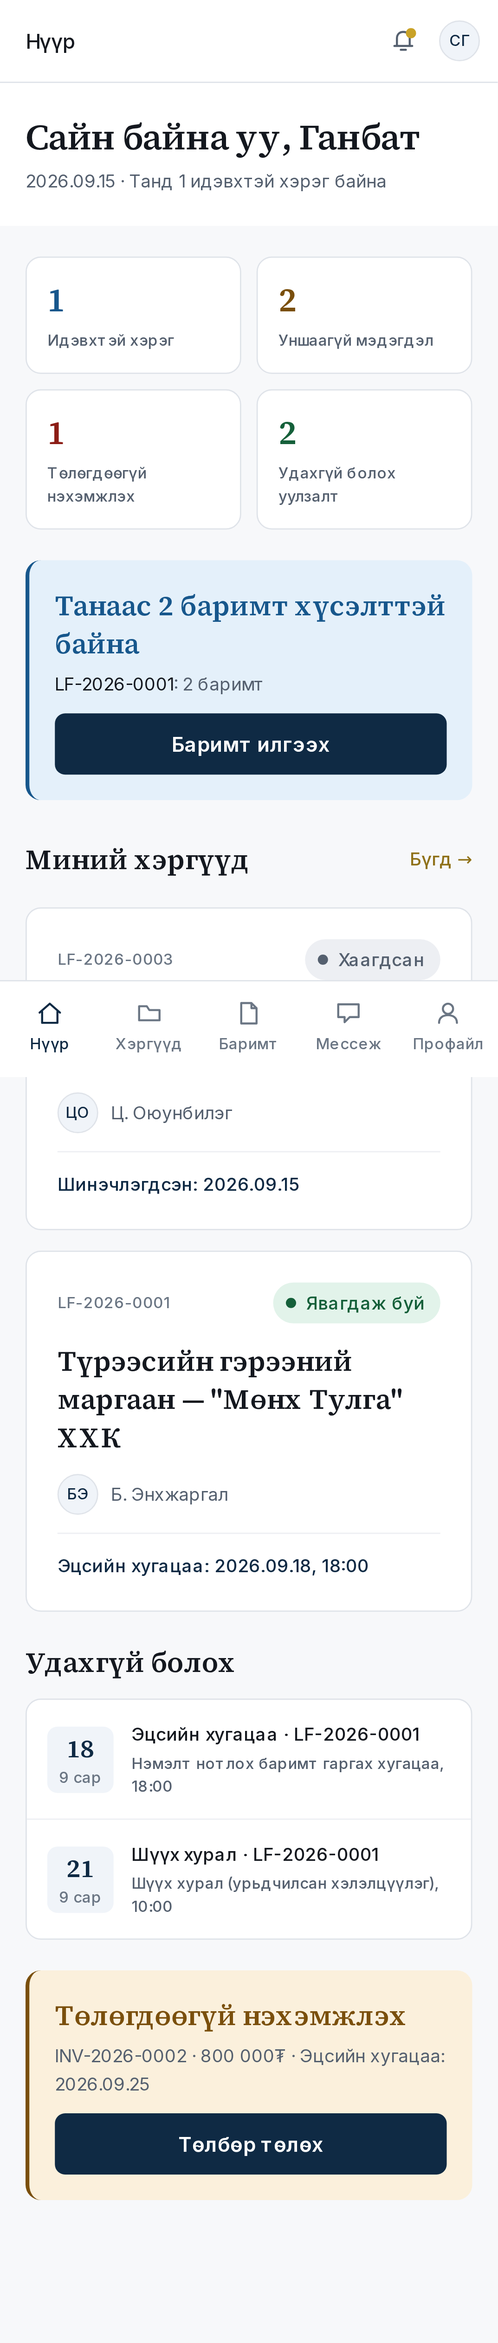
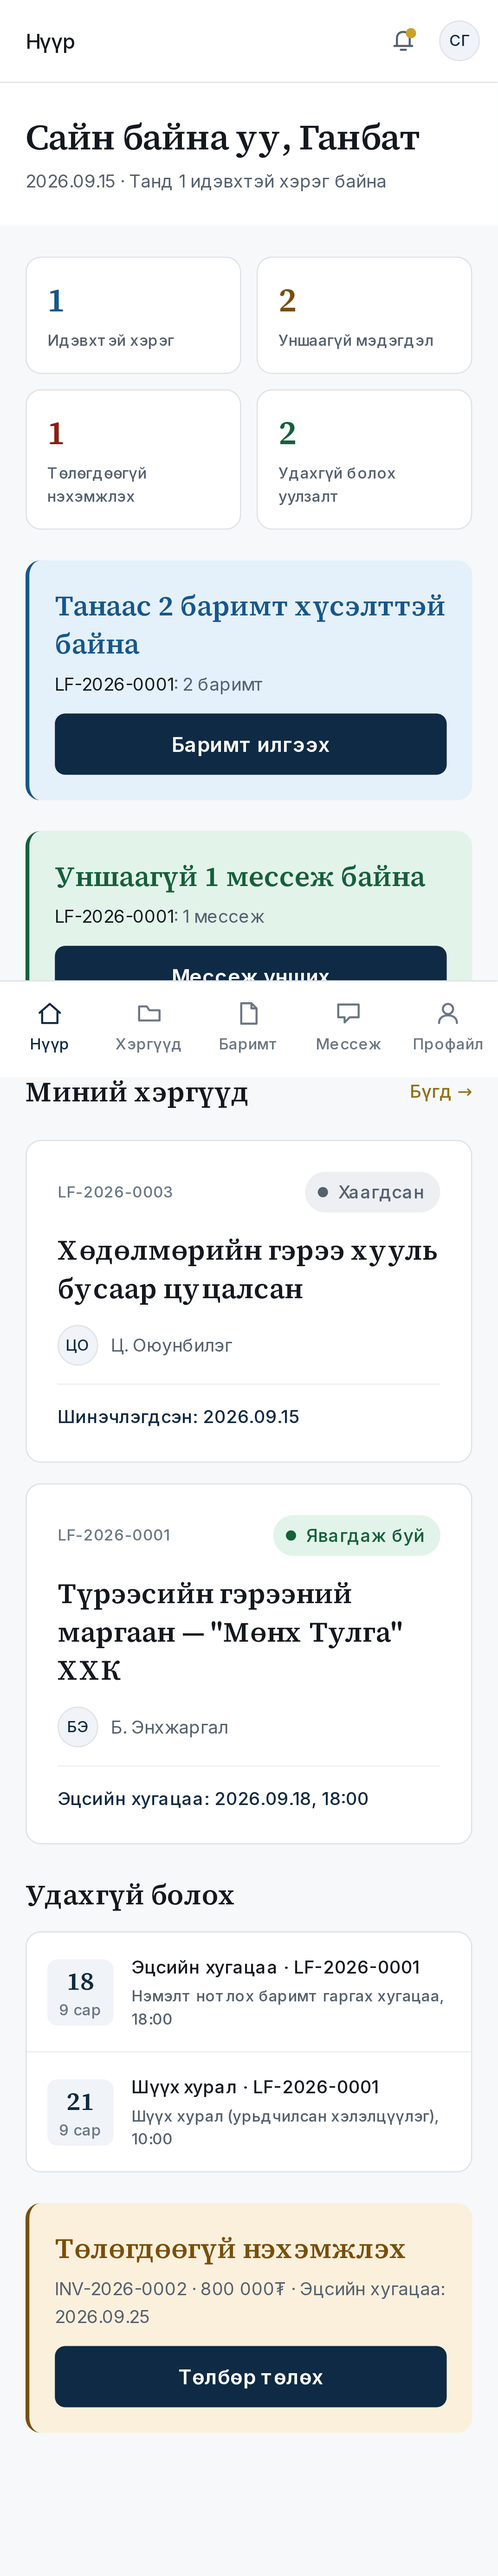
test(web): case messages e2e flows, screenshots and README section
- Playwright: client writes in the case chat → lawyer gets the notification, opens its link and replies →
  the client's open chat shows the reply by polling; inbox unread count drops to 0 after opening;
  another client or lawyer gets 403 from the message API and the chat URL
- Shared e2e helpers (apiAs, createCaseForClient1) moved to fixtures
- Screenshot spec captures the admin chat tab as ADMIN, which does not change read state
- Baselines updated for the chat tab, message badges, dashboard card and the messages inbox
- README: messages module, endpoints, message.sent event and notification dedup, UI, test notes;
  messages removed from the coming-soon list

Claude-Session: https://claude.ai/code/session_01CvyuQB166igy1ds2wLy2Ew

Changed region(s): [[0.0308, 0.0, 0.9534, 0.964], [0.2153, 0.1244, 0.3383, 0.1555], [0.8919, 0.0, 0.9226, 0.0311]]

diff --git a/apps/web/e2e/messages.spec.ts b/apps/web/e2e/messages.spec.ts
@@ -1,0 +1,94 @@
+import { expect, test } from '@playwright/test';
+import { CLIENT1, CLIENT2, LAWYER1, LAWYER2, apiAs, createCaseForClient1, login } from './fixtures';
+
+const uniqueId = () => Date.now().toString(36);
+
+test.describe('Хэргийн мессеж', () => {
+  test('CLIENT мессеж илгээх → LAWYER талд харагдаж мэдэгдэл очих → LAWYER хариулах → CLIENT талд харагдах', async ({ page, browser }, testInfo) => {
+    const id = uniqueId();
+    const question = `Хурлын өмнө уулзаж болох уу? ${id}`;
+    const reply = `Баасан гарагт 14 цагт уулзъя. ${id}`;
+    const lawyerApi = await apiAs(LAWYER1);
+    const created = await createCaseForClient1(lawyerApi, `E2E мессеж ${id}`);
+
+    // Client starts the conversation from the case chat tab.
+    await login(page, CLIENT1);
+    await page.goto(`/portal/cases/${created.id}?tab=messages`);
+    const clientThread = page.getByRole('region', { name: 'Мессеж' });
+    await expect(clientThread.getByText('Харилцаа эхлүүлэх')).toBeVisible();
+    await clientThread.getByLabel('Мессеж бичих').fill(question);
+    await clientThread.getByLabel('Мессеж бичих').press('Enter');
+    await expect(clientThread.getByText(question)).toBeVisible();
+
+    // The lawyer is notified with a link to the admin chat tab.
+    const { items: notifications } = (await (await lawyerApi.get('/notifications')).json()) as { items: { title: string; link: string }[] };
+    const note = notifications.find((item) => item.link === `/admin/cases/${created.id}?tab=messages`);
+    expect(note?.title).toBe(`Шинэ мессеж: ${created.caseNumber}`);
+    await lawyerApi.dispose();
+
+    // Lawyer opens the link, sees the question and replies.
+    const lawyerContext = await browser.newContext({ baseURL: testInfo.project.use.baseURL });
+    const lawyer = await lawyerContext.newPage();
+    await login(lawyer, LAWYER1);
+    await lawyer.goto(note!.link);
+    await expect(lawyer.getByRole('tab', { name: /Мессеж/, selected: true })).toBeVisible();
+    const lawyerThread = lawyer.getByRole('region', { name: 'Мессеж' });
+    await expect(lawyerThread.getByText(question)).toBeVisible();
+    await lawyerThread.getByLabel('Мессеж бичих').fill(reply);
+    await lawyerThread.getByRole('button', { name: 'Илгээх' }).click();
+    await expect(lawyerThread.getByText(reply)).toBeVisible();
+
+    // The client's open chat picks the reply up by polling.
+    await expect(clientThread.getByText(reply)).toBeVisible({ timeout: 15_000 });
+    await lawyerContext.close();
+  });
+
+  test('уншаагүй тоо inbox-д харагдаж, чатыг нээхэд 0 болно', async ({ page }) => {
+    const id = uniqueId();
+    const lawyerApi = await apiAs(LAWYER1);
+    const created = await createCaseForClient1(lawyerApi, `E2E уншаагүй ${id}`);
+    for (const body of [`Эхний мессеж ${id}`, `Хоёр дахь мессеж ${id}`]) {
+      expect((await lawyerApi.post(`/cases/${created.id}/messages`, { data: { body } })).status()).toBe(201);
+    }
+    await lawyerApi.dispose();
+
+    await login(page, CLIENT1);
+    await page.goto('/portal/messages');
+    const row = page.getByRole('link', { name: new RegExp(created.caseNumber) });
+    await expect(row).toContainText(`Хоёр дахь мессеж ${id}`);
+    await expect(row.getByLabel('2 уншаагүй')).toBeVisible();
+
+    await row.click();
+    await expect(page).toHaveURL(new RegExp(`/portal/cases/${created.id}\\?tab=messages$`));
+    await expect(page.getByRole('region', { name: 'Мессеж' }).getByText(`Эхний мессеж ${id}`)).toBeVisible();
+
+    const clientApi = await apiAs(CLIENT1);
+    await expect.poll(async () => ((await (await clientApi.get(`/cases/${created.id}/messages/unread-count`)).json()) as { count: number }).count).toBe(0);
+    await clientApi.dispose();
+  });
+
+  test('хэрэгт хандах эрхгүй хүн мессеж таб, API-аар орж чадахгүй', async ({ page, browser }, testInfo) => {
+    const lawyerApi = await apiAs(LAWYER1);
+    const created = await createCaseForClient1(lawyerApi, `E2E мессежийн эрх ${uniqueId()}`);
+    await lawyerApi.dispose();
+
+    for (const outsider of [CLIENT2, LAWYER2]) {
+      const api = await apiAs(outsider);
+      expect((await api.get(`/cases/${created.id}/messages`)).status()).toBe(403);
+      expect((await api.post(`/cases/${created.id}/messages`, { data: { body: 'Зөвшөөрөлгүй' } })).status()).toBe(403);
+      await api.dispose();
+    }
+
+    await login(page, CLIENT2);
+    await page.goto(`/portal/cases/${created.id}?tab=messages`);
+    await expect(page.getByRole('alert').filter({ hasText: '403' })).toBeVisible();
+    await expect(page.getByRole('region', { name: 'Мессеж' })).toHaveCount(0);
+
+    const lawyerContext = await browser.newContext({ baseURL: testInfo.project.use.baseURL });
+    const otherLawyer = await lawyerContext.newPage();
+    await login(otherLawyer, LAWYER2);
+    await otherLawyer.goto(`/admin/cases/${created.id}?tab=messages`);
+    await expect(otherLawyer.getByRole('alert').filter({ hasText: '403' })).toBeVisible();
+    await lawyerContext.close();
+  });
+});

diff --git a/apps/web/e2e/document-requests.spec.ts b/apps/web/e2e/document-requests.spec.ts
@@ -1,24 +1,8 @@
-import { type APIRequestContext, type Browser, type Page, expect, request as playwrightRequest, test } from '@playwright/test';
-import { API_URL, CLIENT1, CLIENT2, LAWYER1, login } from './fixtures';
+import { type Browser, type Page, expect, test } from '@playwright/test';
+import { CLIENT1, CLIENT2, LAWYER1, apiAs, createCaseForClient1, login } from './fixtures';
 
 const uniqueId = () => Date.now().toString(36);
 const pdf = (name: string) => ({ name, mimeType: 'application/pdf', buffer: Buffer.from(`%PDF-1.4 ${name}`) });
-
-async function apiAs(user: { identifier: string; password: string }): Promise<APIRequestContext> {
-  const api = await playwrightRequest.newContext({ baseURL: API_URL });
-  expect((await api.post('/auth/login', { data: user })).ok()).toBeTruthy();
-  return api;
-}
-
-/** A fresh case for client1, handled by lawyer1, so every run starts from an empty request list. */
-async function createCaseForClient1(lawyerApi: APIRequestContext, title: string): Promise<{ id: string; caseNumber: string }> {
-  const clients = (await (await lawyerApi.get('/users?role=CLIENT&limit=100')).json()) as { items: { id: string; email: string }[] };
-  const client = clients.items.find((user) => user.email === CLIENT1.identifier);
-  expect(client, 'seeded client1 exists').toBeTruthy();
-  const res = await lawyerApi.post('/cases', { data: { title, type: 'CIVIL', clientId: client!.id } });
-  expect(res.status()).toBe(201);
-  return (await res.json()) as { id: string; caseNumber: string };
-}
 
 async function clientPage(browser: Browser, baseURL: string | undefined): Promise<Page> {
   const context = await browser.newContext({ baseURL });

diff --git a/apps/web/e2e/fixtures.ts b/apps/web/e2e/fixtures.ts
@@ -1,4 +1,4 @@
-import { type Page, expect } from '@playwright/test';
+import { type APIRequestContext, type Page, expect, request as playwrightRequest } from '@playwright/test';
 
 export const API_URL = process.env.E2E_API_URL ?? 'http://localhost:4000';
 
@@ -20,4 +20,21 @@ export async function login(page: Page, user: Credentials = CLIENT1) {
   await page.getByRole('button', { name: 'Нэвтрэх', exact: true }).click();
   const isStaff = user.identifier.endsWith('@lawfirm.mn');
   await expect(page).toHaveURL(isStaff ? /\/admin$/ : /\/portal$/);
+}
+
+/** Logs in against the API directly; the returned context keeps the session cookies. */
+export async function apiAs(user: Credentials): Promise<APIRequestContext> {
+  const api = await playwrightRequest.newContext({ baseURL: API_URL });
+  expect((await api.post('/auth/login', { data: user })).ok()).toBeTruthy();
+  return api;
+}
+
+/** A fresh case for client1 handled by lawyer1 (pass a context logged in as lawyer1), so each run starts empty. */
+export async function createCaseForClient1(lawyerApi: APIRequestContext, title: string): Promise<{ id: string; caseNumber: string }> {
+  const clients = (await (await lawyerApi.get('/users?role=CLIENT&limit=100')).json()) as { items: { id: string; email: string }[] };
+  const client = clients.items.find((user) => user.email === CLIENT1.identifier);
+  expect(client, 'seeded client1 exists').toBeTruthy();
+  const res = await lawyerApi.post('/cases', { data: { title, type: 'CIVIL', clientId: client!.id } });
+  expect(res.status()).toBe(201);
+  return (await res.json()) as { id: string; caseNumber: string };
 }

diff --git a/apps/web/e2e/screenshots.spec.ts b/apps/web/e2e/screenshots.spec.ts
@@ -108,8 +108,13 @@ test.describe('screenshots', () => {
     await page.goto('/admin/cases?search=0001', { waitUntil: 'load' });
     const requestCase = page.locator('a[href^="/admin/cases/"]:not([href$="/new"]):visible').first();
     await requestCase.waitFor();
-    await page.goto(`${await requestCase.getAttribute('href')}?tab=requests`, { waitUntil: 'load' });
+    const requestCaseHref = await requestCase.getAttribute('href');
+    await page.goto(`${requestCaseHref}?tab=requests`, { waitUntil: 'load' });
     await page.waitForTimeout(1500);
     await page.screenshot({ path: `screenshots/admin-case-requests.${suffix}.png`, fullPage: true });
+    // ADMIN only views the chat, so this does not mark the seeded messages read
+    await page.goto(`${requestCaseHref}?tab=messages`, { waitUntil: 'load' });
+    await page.waitForTimeout(1500);
+    await page.screenshot({ path: `screenshots/admin-case-messages.${suffix}.png`, fullPage: true });
   });
 });
